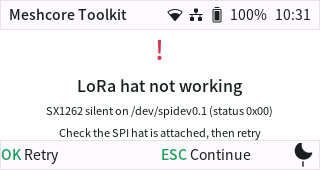
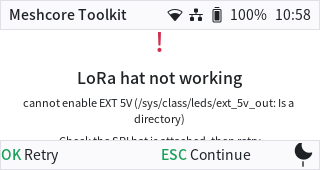
fix(lora): power the EXT 5V rail before probing the hat
The SX1262 on the Cap LoRa-1262 is fed from the CardputerZero EXT 5V rail,
which is off by default. With the rail down every SPI read returns 0x00, so
the startup probe reported "SX1262 silent" even with the hat firmly seated.

- probe_lora_hat() now writes /sys/class/leds/ext_5v_out/brightness=1 and
  waits 150 ms (the same settle time M5Stack's LoRa app uses) before reading
  the SX1262 GetStatus byte.
- release_lora_hat() restores the rail to its previous value on clean exit.
- The power path is configurable via APP_LORA_POWER_PATH, and the error text
  distinguishes "cannot enable EXT 5V" from a silent radio.
- Error screen hint now mentions power, not just attachment.
- Screenshots replaced with real lv_snapshot captures (PRSC) instead of
  hand-converted /dev/fb0 dumps, which had the RGB565 byte order wrong.
- Screenshot filename prefix no longer says "template_".

Verified on wasp@100.101.102.67: "LoRa hat OK (/dev/spidev0.1)".

diff --git a/src/platform/lora_hat.cpp b/src/platform/lora_hat.cpp
@@ -11,14 +11,14 @@
 
 #if !USE_DESKTOP
 #include <cerrno>
+#include <cstdlib>
 #include <cstring>
 #include <dirent.h>
 #include <fcntl.h>
 #include <linux/spi/spidev.h>
+#include <string>
 #include <sys/ioctl.h>
 #include <unistd.h>
-
-#include <string>
 #include <vector>
 #endif
 
@@ -26,11 +26,76 @@
 #define APP_LORA_SPI_DEVICE ""
 #endif
 
+// EXT 5V rail exposed as an LED-class brightness file on the CardputerZero.
+#ifndef APP_LORA_POWER_PATH
+#define APP_LORA_POWER_PATH "/sys/class/leds/ext_5v_out/brightness"
+#endif
+
 namespace platform {
 namespace {
 
 #if !USE_DESKTOP
 constexpr std::uint8_t kSx126xGetStatus = 0xC0;
+// The hat needs the rail up before the radio answers; the vendor app uses the
+// same 150 ms settle time.
+constexpr useconds_t kPowerSettleUs = 150000;
+
+// Previous rail value so shutdown can put it back. -1 = never touched.
+int g_saved_power = -1;
+
+bool read_sysfs_value(const char* path, int& value) {
+    const int fd = open(path, O_RDONLY);
+    if (fd < 0) {
+        return false;
+    }
+    char buffer[16] = {};
+    const auto count = read(fd, buffer, sizeof(buffer) - 1);
+    close(fd);
+    if (count <= 0) {
+        return false;
+    }
+    value = std::atoi(buffer);
+    return true;
+}
+
+bool write_sysfs_value(const char* path, int value, std::string& error) {
+    const int fd = open(path, O_WRONLY);
+    if (fd < 0) {
+        error = std::string(path) + ": " + std::strerror(errno);
+        return false;
+    }
+    char buffer[16] = {};
+    const int length = std::snprintf(buffer, sizeof(buffer), "%d\n", value);
+    const auto written = write(fd, buffer, static_cast<size_t>(length));
+    close(fd);
+    if (written != length) {
+        error = std::string(path) + ": write failed";
+        return false;
+    }
+    return true;
+}
+
+// Powers the EXT 5V rail. Returns false with a human-readable reason when the
+// rail exists but cannot be driven (e.g. wrong group permissions).
+bool enable_hat_power(std::string& error) {
+    const char* path = APP_LORA_POWER_PATH;
+    if (access(path, F_OK) != 0) {
+        // No such rail on this board; let the SPI probe decide.
+        return true;
+    }
+
+    int current = 0;
+    if (read_sysfs_value(path, current) && g_saved_power < 0) {
+        g_saved_power = current;
+    }
+    if (current == 0 && !write_sysfs_value(path, 1, error)) {
+        error = std::string("cannot enable EXT 5V (") + error + ")";
+        return false;
+    }
+
+    usleep(kPowerSettleUs);
+    return true;
+}
 
 std::vector<std::string> spi_devices() {
     std::vector<std::string> devices;
@@ -78,21 +143,22 @@ bool sx126x_responds(const std::string& device, std::string& error) {
     transfer.bits_per_word = bits;
 
     const bool ok = ioctl(fd, SPI_IOC_MESSAGE(1), &transfer) >= 0;
+    const int saved_errno = errno;
     close(fd);
 
     if (!ok) {
-        error = std::string("SPI transaction failed on ") + device + ": " + std::strerror(errno);
+        error = std::string("SPI transaction failed on ") + device + ": " + std::strerror(saved_errno);
         return false;
     }
 
-    // SX126x status: bits [6:4] carry the chip mode. A present radio answers
-    // with a mode in 2..6 (standby/FS/RX/TX); a floating MISO reads 0x00/0xFF.
+    // SX126x status: bits [6:4] carry the chip mode. A powered radio answers
+    // with 2..6 (STDBY_RC/STDBY_XOSC/FS/RX/TX); an unpowered one reads 0x00.
     const std::uint8_t status = rx[1];
     const std::uint8_t chip_mode = (status >> 4U) & 0x07U;
     if (chip_mode < 2 || chip_mode > 6) {
-        char detail[64];
-        std::snprintf(detail, sizeof(detail), "SX1262 silent on %s (status 0x%02X)",
-                      device.c_str(), status);
+        char detail[128];
+        std::snprintf(detail, sizeof(detail),
+                      "SX1262 silent on %s (status 0x%02X)", device.c_str(), status);
         error = detail;
         return false;
     }
@@ -111,10 +177,16 @@ LoRaHatStatus probe_lora_hat() {
     status.device = "simulator";
     return status;
 #else
+    std::string power_error;
+    if (!enable_hat_power(power_error)) {
+        status.present = true;
+        status.error = power_error;
+        return status;
+    }
+
     const auto devices = spi_devices();
     if (devices.empty()) {
         status.present = false;
-        status.working = false;
         status.error = "No SPI device found";
         return status;
     }
@@ -135,6 +207,17 @@ LoRaHatStatus probe_lora_hat() {
     status.present = true; // an spidev node exists, but the radio did not answer
     status.working = false;
     return status;
+#endif
+}
+
+void release_lora_hat() {
+#if !USE_DESKTOP
+    if (g_saved_power < 0) {
+        return;
+    }
+    std::string ignored;
+    write_sysfs_value(APP_LORA_POWER_PATH, g_saved_power, ignored);
+    g_saved_power = -1;
 #endif
 }
 

diff --git a/src/platform/lora_hat.h b/src/platform/lora_hat.h
@@ -17,9 +17,16 @@ struct LoRaHatStatus {
     std::string device;
 };
 
-// Probes for the CardputerZero LoRa hat (SX1262 on the SPI bus). On desktop
-// builds this returns a clearly-simulated "working" result so the UI can be
-// exercised; on the device it opens a spidev node and reads the SX1262 status.
+// Probes for the CardputerZero LoRa hat (SX1262 on the SPI bus).
+//
+// The hat is powered from the EXT 5V rail, which is off by default: the
+// SX1262 stays silent (MISO reads 0x00) until that rail is enabled. The probe
+// therefore powers the rail, waits for it to settle, and then reads the SX1262
+// status byte. On desktop builds this returns a clearly-simulated result.
 LoRaHatStatus probe_lora_hat();
+
+// Restores the EXT 5V rail to the value it had before probe_lora_hat().
+// Call on shutdown so the port is not left powered.
+void release_lora_hat();
 
 } // namespace platform

diff --git a/src/view/screens/lora_error_screen.cpp b/src/view/screens/lora_error_screen.cpp
@@ -48,7 +48,7 @@ void LoraErrorScreen::build_content(lv_obj_t* content) {
     reactive::bind_theme(error_label_, view_model().dark_mode_subject(), reactive::ThemeRole::Text);
 
     auto* hint = lv_label_create(group);
-    lv_label_set_text(hint, "Check the SPI hat is attached, then retry");
+    lv_label_set_text(hint, "Check the hat is seated and powered, then retry");
     const lv_font_t* hint_font = assets().load_standard_font(11, app::StandardFontWeight::Regular);
     lv_obj_set_style_text_font(hint, hint_font ? hint_font : &lv_font_montserrat_12, 0);
     reactive::bind_theme(hint, view_model().dark_mode_subject(), reactive::ThemeRole::Text);

diff --git a/src/platform/screenshot_service.cpp b/src/platform/screenshot_service.cpp
@@ -57,7 +57,7 @@ std::string timestamp_filename() {
     char buffer[48]{};
     std::snprintf(buffer,
                   sizeof(buffer),
-                  "template_%04d%02d%02d_%02d%02d%02d_%03d.png",
+                  "meshcore-toolkit_%04d%02d%02d_%02d%02d%02d_%03d.png",
                   local_time.tm_year + 1900,
                   local_time.tm_mon + 1,
                   local_time.tm_mday,

diff --git a/src/app/app.cpp b/src/app/app.cpp
@@ -430,6 +430,7 @@ int Application::run() {
     }
 
     persist_config(persistence);
+    platform::release_lora_hat();
 
     if (quit_observer) {
         lv_observer_remove(quit_observer);

diff --git a/README.md b/README.md
@@ -23,8 +23,8 @@ layout, so the two apps look like siblings on the device.
   coding rate, TX power, sync word, and preamble.
 - **Regions** — Europe, USA/Canada, Australia, New Zealand, EU 433, and a Custom
   mode for manual frequency plans.
-- **LoRa hat check** — probes the SX1262 hat on the SPI bus at startup and shows
-  an error screen if it is not responding.
+- **LoRa hat check** — powers the hat's EXT 5V rail, probes the SX1262 on the SPI
+  bus at startup, and shows an error screen if it is not responding.
 
 ## Requirements
 
@@ -128,17 +128,23 @@ config at `/etc/meshcore-toolkit.conf`.
 - **First version.** The sliding menu, Settings editor (all primary MeshCore
   options), region presets, LoRa-hat startup check, icon, and packaging are in
   place; Test 1 / Test 2 are placeholders for the mesh-health views.
-- **LoRa probe is best-effort.** It enumerates `/dev/spidev*` and reads the
-  SX1262 `GetStatus` byte (`0x00` means nothing is driving MISO).
-- **The hat is more than a bare SPI device.** M5Stack's own
-  `/usr/share/Cap-LoRa-1262/bin/Cap-LoRa-1262` drives RESET/BUSY through a
-  `PI4IOE5V6408` I²C expander (falling back to direct GPIO). Reading `GetStatus`
-  without that bring-up sequence can fail even with the hat seated, so the next
-  step is to implement the expander/GPIO sequence instead of relying on the raw
-  read.
-- **On the development unit** no expander answered on any I²C bus and
-  `/dev/spidev0.1` read `0x00`, so the app currently lands on the "LoRa hat not
-  working" screen; `ESC` continues into the UI in degraded mode (`OK` retries).
+- **The hat is powered from the EXT 5V rail, which is off by default.** With the
+  rail down the SX1262 still answers nothing over SPI — every read returns
+  `0x00`, which looks exactly like a missing hat. The probe therefore sets
+  `/sys/class/leds/ext_5v_out/brightness` to `1`, waits 150 ms for the rail to
+  settle (the same delay M5Stack's own LoRa app uses), and only then reads the
+  SX1262 `GetStatus` byte. Verified on hardware: hat detected on
+  `/dev/spidev0.1`.
+- **The rail node is `root:gpio` mode `0664`**, so the app needs `gpio` group
+  membership to power the hat. When it cannot be written, the error screen says
+  so (`cannot enable EXT 5V`).
+- **Not yet implemented:** the hat's RESET/BUSY lines live behind a
+  `PI4IOE5V6408` I²C expander (`/dev/i2c-1`) in M5Stack's driver, with a direct
+  GPIO fallback. The probe currently relies on the radio already being in
+  standby; driving reset explicitly is needed before real TX/RX.
+- **On the development unit** no expander answered on any I²C bus, yet the SPI
+  status read is valid once the rail is up — so the reset line is either
+  strapped high or held externally.
 - **MeshCore integration is config-first.** The radio settings mirror MeshCore's
   `lora` namespace and NodePrefs; the on-air protocol/routing driver is the next
   milestone.
